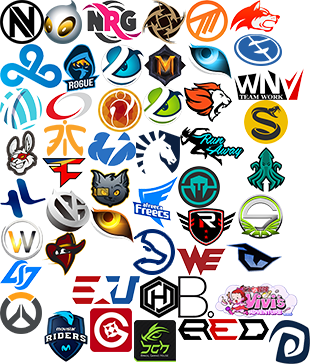
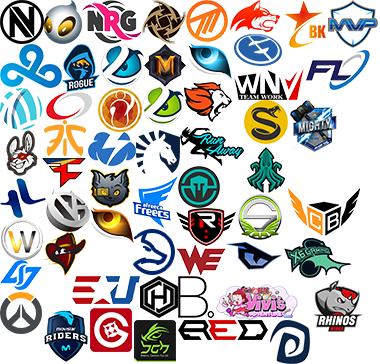
Added all Apex Season 3 teams (#37)

diff --git a/src/styles.css b/src/styles.css
@@ -213,11 +213,11 @@ a#sr-more-link {
 	width: 100%;
 }
 
-/* Hide snoo */
+/* Replace snoo */
 #header-img-a  {
 	background: 0;
 	display: inline-block;
-	line-height: 48px;
+	line-height: 40px;
 	margin-left: 16px;
 	padding: 0 16px;
 	vertical-align: top;
@@ -277,6 +277,25 @@ a#sr-more-link {
 	top: 9px;
 }
 
+/* Add `body` to increase specificity */
+body #userbarToggle {
+	background: none;
+	border: none;
+	color: inherit;
+	height: auto;
+	line-height: 0;
+	margin: 0 -8px 0 0;
+	min-height: 0;
+	opacity: .15; /* To match #header-bottom-right a */
+	padding: 2px 4px;
+	position: static;
+	width: auto;
+}
+
+#userbarToggle:hover {
+	opacity: 1;
+}
+
 #header-bottom-right>* {
 	margin-right: 8px;
 }
@@ -325,7 +344,6 @@ a#sr-more-link {
 }
 
 #new_modmail {
-	margin-right: 1px;
 	top: -3px;
 }
 
@@ -425,7 +443,7 @@ a#sr-more-link {
 	left: 0;
 	position: absolute;
 	right: 0;
-	top: 165px;
+	top: 173px;
 }
 
 .tabmenu {
@@ -442,7 +460,7 @@ a#sr-more-link {
 
 .tabmenu li a {
 	background: none;
-	line-height: 48px;
+	line-height: 40px;
 	padding: 0 8px;
 	opacity: .3;
 }
@@ -494,7 +512,7 @@ a#sr-more-link {
 	margin: 0;
 	position: absolute;
 	right: 186px;
-	top: 170px;
+	top: 173px;
 	width: 166px;
 	z-index: 2;
 }
@@ -1037,7 +1055,7 @@ body:not(.listing-page) .side .md>ol {
 	padding: 0;
 	position: absolute;
 	right: 368px;
-	top: 167px;
+	top: 170px;
 	z-index: 99; /* Needed to allow submenu to float above rest of sidebar */
 }
 
@@ -1086,7 +1104,7 @@ body:not(.listing-page) .side .md>ol {
 
 .side .md>ol:hover ol {
 	opacity: 1;
-	transform:translateY(13px);
+	transform:translateY(10px);
 	visibility: visible;
 }
 
@@ -1237,15 +1255,40 @@ body:not(.listing-page) .side .md>ol {
 
 /* Listing */
 body .res-filterline {
+	border-radius: 1px;
 	margin-bottom: 16px;
 	padding: 16px;
+}
+
+body .res-filterline > * {
+	color: #85898E;
+	font-family: inherit;
+}
+
+body .res-filterline-filter {
+	border: none;
+	cursor: default;
+	text-transform: capitalize;
+}
+
+body .res-filterline-dropdown > span {
+	cursor: default;
+	text-transform: capitalize;
+}
+
+body .res-filterline-filter:hover,
+body .res-filterline-filter-active, 
+body .res-filterline-filter-active:hover,
+body .res-filterline-dropdown > span:hover {
+	border: none;
+	color: #0C141E;
 }
 
 .listing-page .link.stickied {
 	margin-bottom: 16px;
 }
 
-.listing-page .link.stickied+.link.stickied {
+.listing-page .link.stickied + .clearleft + .link.stickied {
 	margin-top: -16px;
 }
 
@@ -1502,7 +1545,6 @@ body.res-userHighlight .tagline .author.moderator {
 	font-weight: normal;
 	padding: 0;
 	text-transform: capitalize;
-	transition: opacity .12s ease-in-out, color .06s ease-in-out;
 }
 
 .listing-page .entry .buttons li a {
@@ -1627,7 +1669,7 @@ li .marknsfw-button a[data-event-action="marknsfw"] {
 	box-shadow: 0 0 3840px 3840px rgba(0, 0, 0, .3);
 	left: unset !important;
 	right: 368px;
-	width: 500px !important;
+	width: 640px !important;
 }
 
 .flairselector.drop-choices.active:after {
@@ -1685,6 +1727,7 @@ li .marknsfw-button a[data-event-action="marknsfw"] {
 	float: none !important;
 	margin: 16px 0;
 	max-width: none;
+	width: auto !important;
 }
 
 .flairselector li {
@@ -1832,6 +1875,30 @@ body .flairselector li:hover {
 	background-color: transparent;
 }
 
+/* Verified flair */
+.flair {
+	background: none;
+}
+
+.flair-verified {
+	cursor: help;
+	font-size: 0;
+	margin: 0;
+	padding: 0;
+}
+
+.flair-verified:before {
+	bottom: -2px;
+	color: #FA9F29;
+	content: "✔";
+	font: 900 15px Roboto,-apple-system,BlinkMacSystemFont,"Helvetica Neue",Helvetica,Arial,sans-serif;
+	position: relative;
+}
+
+.comment .flair-verified {
+	margin: 0 4px;
+}
+
 /* User flairs for teams and in-post tags for team icons */
 .flair-fan, .md a[href^="#team-"] {
 	background: url(%%flairs-teams%%) no-repeat;
@@ -1877,7 +1944,7 @@ body .flairselector li:hover {
 @media (-webkit-min-device-pixel-ratio: 2), (min-device-pixel-ratio: 2), (min-resolution: 2dppx) {
 	.flair-fan, .md a[href^="#team-"], .md a[href="#team"] {
 		background: url(%%flairs-teams-2x%%) no-repeat;
-		background-size: 156px 182px;
+		background-size: 190px 182px;
 	}
 	.flair-complexity {
 		width: 23px;
@@ -1986,7 +2053,7 @@ body .flairselector li:hover {
 }
 .flair-rise, .md a[href*="rise"] {
 	background-position: -88px -104px;
-	border-radius: 0 0 0 50%;
+	border-radius: 0 0 50% 50%;
 	height: 19px;
 	width: 30px;
 }
@@ -2102,6 +2169,41 @@ body .flairselector li:hover {
 .flair-east-wind, .md a[href*="east-wind"] {
 	background-position: -135px -160px;
 	width: 20px;
+}
+.flair-bk-stars, .md a[href*="bk-stars"] {
+	background-position: -143px 0;
+	height: 24px;
+	width: 20px;
+}
+.flair-x6-gaming, .md a[href*="x6-gaming"] {
+	background-position: -142px -119px;
+	height: 20px;
+	width: 34px;
+}
+.flair-conbox-spirit, .md a[href*="conbox-spirit"] {
+	background-position: -144px -94px;
+	height: 24px;
+	width: 37px;
+}
+.flair-flash-lux, .md a[href*="flash-lux"] {
+	background-position: -153px -25px;
+	height: 20px;
+	width: 32px;
+}
+.flair-mighty, .md a[href*="mighty"] {
+	background-position: -145px -50px;
+	height: 26px;
+	width: 24px;
+}
+.flair-rhinos-gaming-wings, .md a[href*="rhinos-gaming-wings"] {
+	background-position: -157px -140px;
+	height: 26px;
+	width: 24px;
+}
+.flair-mvp-space, .md a[href*="mvp-space"] {
+	background-position: -164px 0px;
+	height: 24px;
+	width: 25px;
 }
 
 /* Small team and flag icons */
@@ -2617,6 +2719,10 @@ body.RESSubscriptionButton:hover {
 
 body .commentNavSortType {
 	font-weight: normal;
+}
+
+body .commentNavSortType:hover {
+	color: #0C141E;
 }
 
 /* Main comment box */
